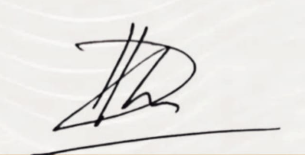
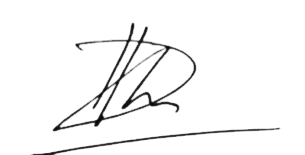
new changes

Changed region(s): [[0.1475, 0.129, 0.6492, 0.8516], [0.0, 0.8, 1.0, 1.0]]

diff --git a/src/components/common/SalarySlipA4.jsx b/src/components/common/SalarySlipA4.jsx
@@ -498,26 +498,35 @@ const SalarySlipA4 = ({ data, employee, containerId = 'salary-slip-print' }) => 
       <div style={{ display: 'grid', gridTemplateColumns: '1fr 1fr 1fr', gap: 18, marginTop: 16, paddingTop: 14, borderTop: '1px solid #e2e8f0' }}>
         {/* Employee Signature */}
         <div style={{ textAlign: 'center' }}>
-          <div style={{ height: 38, borderBottom: '1px solid #cbd5e1', marginBottom: 5, display: 'flex', alignItems: 'center', justifyContent: 'center', fontSize: 10, color: '#94a3b8' }}>
+          <div style={{ height: 38, borderBottom: '1px solid #cbd5e1', marginBottom: 5, display: 'flex', alignItems: 'center', justifyContent: 'center' }}>
+            <img
+              src="/emp_signature.png"
+              alt="Employee Signature"
+              style={{ height: 36, maxWidth: '100%', objectFit: 'contain' }}
+            />
           </div>
           <div style={{ fontSize: 10, fontWeight: 700, color: '#64748b' }}>Employee Signature</div>
         </div>
 
         {/* HR Manager */}
         <div style={{ textAlign: 'center' }}>
-          <div style={{ height: 38, borderBottom: '1px solid #cbd5e1', marginBottom: 5, display: 'flex', alignItems: 'center', justifyContent: 'center', fontSize: 10, color: '#94a3b8' }}>
-            [HR Signature]
+          <div style={{ height: 38, borderBottom: '1px solid #cbd5e1', marginBottom: 5, display: 'flex', alignItems: 'center', justifyContent: 'center' }}>
+            <img
+              src="/hr_signature.png"
+              alt="HR Signature"
+              style={{ height: 36, maxWidth: '100%', objectFit: 'contain' }}
+            />
           </div>
           <div style={{ fontSize: 10, fontWeight: 700, color: '#64748b' }}>HR Manager</div>
         </div>
 
-        {/* Authorized Signatory — actual signature image */}
+        {/* Authorized Signatory */}
         <div style={{ textAlign: 'center' }}>
           <div style={{ height: 38, borderBottom: '1px solid #cbd5e1', marginBottom: 5, display: 'flex', alignItems: 'center', justifyContent: 'center' }}>
             <img
               src="/auth_signature.png"
               alt="Authorized Signature"
-              style={{ height: 36, maxWidth: '100%', objectFit: 'contain', mixBlendMode: 'multiply' }}
+              style={{ height: 36, maxWidth: '100%', objectFit: 'contain' }}
             />
           </div>
           <div style={{ fontSize: 10, fontWeight: 700, color: '#64748b' }}>Authorized Signatory</div>
